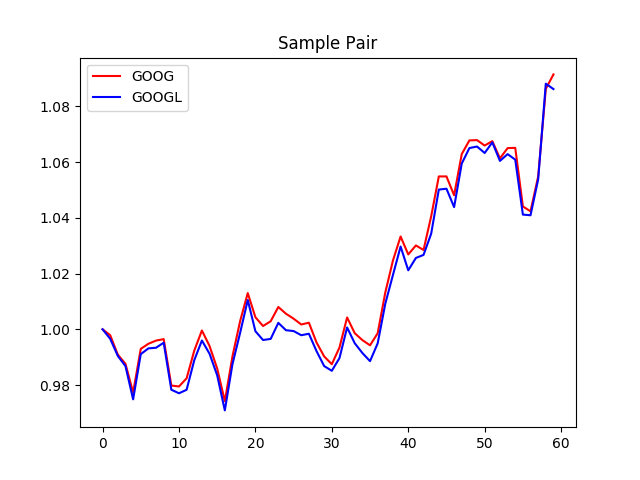
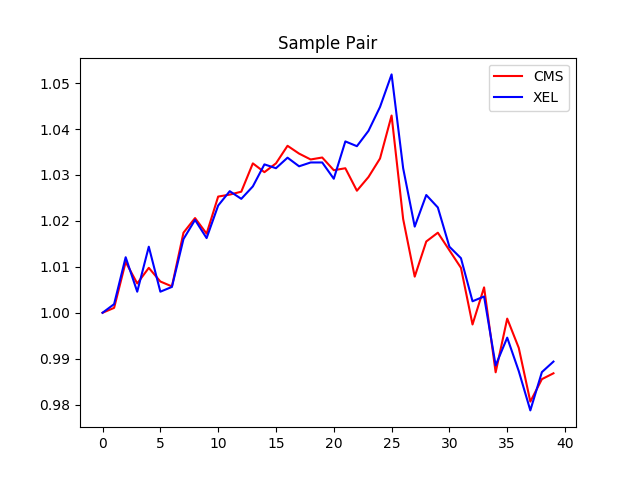
backtesting complete on baseline

diff --git a/models/baseline.py b/models/baseline.py
@@ -6,6 +6,61 @@ import matplotlib.pyplot as plt
 
 N = 20
 
+def backtest_baseline(pairs, T): 
+    in_trade = False
+    profit = 0
+    trade_start=0
+    counter = 0
+    for pair in pairs: 
+        print(counter)
+        counter+=1
+        A = list(T[pair[0]])
+        B = list(T[pair[1]]) 
+        spread = np.absolute(np.array(A) - np.array(B))
+        threshold = 2*np.std(spread)
+        i = 0
+        while(i < len(spread)):
+            #enter trade
+            if spread[i] >= threshold: 
+                
+                print("{}-{}, entered trade at {}, spread: {}".format(pair[0], pair[1], i, spread[i]))
+                trade_start = i
+                in_trade = True
+
+                if A[i] > B[i]: 
+                    #stay in trade until cross
+                    while(i < len(spread) and A[i] > B[i]): 
+                        i+=1
+                    i-=1 
+                    if i == len(spread)-1 and A[i] > B[i]: 
+                        break
+                    profit += A[trade_start] - B[trade_start]
+                    in_trade = False
+
+                elif B[i] >= A[i]: 
+                    while(i < len(spread) and B[i] > A[i]): 
+                        i+=1 
+                    i-=1
+                    if i == len(spread)-1 and B[i] > A[i]: 
+                        break
+                    profit += B[trade_start] - A[trade_start]
+                    in_trade = False
+                print("exit: {}".format(i+1))
+            i+=1
+        
+        #if in trade then we just exit
+        if in_trade: 
+            print("loss!")
+            profit += -A[len(spread)-1] + A[trade_start]
+            profit += B[len(spread)-1] - B[trade_start] 
+    return profit
+
+
+
+
+
+
+
 def plot_ts(TS, labels, title, filename): 
     plt.figure()
     colors = ["r", "b"]
@@ -46,8 +101,8 @@ def normalize_prices(df):
 if __name__ == "__main__": 
     SnP = pandas.read_csv("/Users/borauyumazturk/CS229/borasco/data/SP500_90day_ts.csv")
     SnP = normalize_prices(SnP)
-    test = SnP[60:]
-    SnP = SnP[0:60]
+    test = SnP[30:]
+    SnP = SnP[0:30]
     stocks, scores = similarities(SnP)
     pairs = top_n(scores, N)
     pairs = [(stocks[x[0]], stocks[x[1]], x[2]) for x in pairs]
@@ -55,11 +110,13 @@ if __name__ == "__main__":
     #some info
     for x in pairs: 
         print("{} and {}: {}".format(x[0], x[1], x[2]))
-    pair1 = pairs[0]
-    plot_ts([SnP[pair1[0]], SnP[pair1[1]]], [pair1[0], pair1[1]], "Sample Pair", "sample_pair.png")
+    pair1 = pairs[6]
+    plot_ts([SnP[pair1[0]], SnP[pair1[1]]], [pair1[0], pair1[1]], "Sample Pair_train", "sample_pair_train.png")
+    plot_ts([test[pair1[0]], test[pair1[1]]], [pair1[0], pair1[1]], "Sample Pair_test", "sample_pair_test.png")
 
-    #profit = backtest_baseline(pairs, test)
-    #print(profit)
+
+    profit = backtest_baseline(pairs, test)
+    print(profit)
     
 
 
